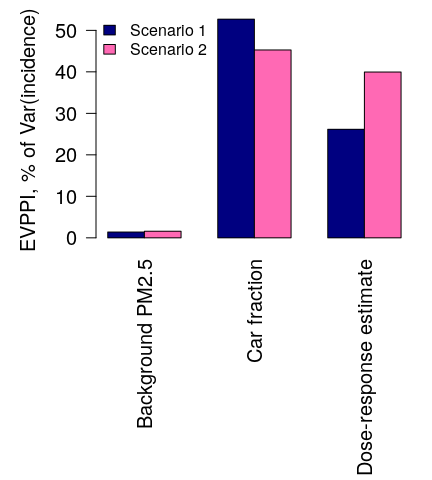
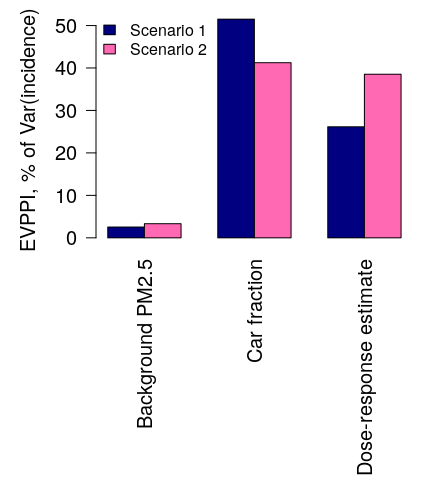
tidy

diff --git a/README.md b/README.md
@@ -78,9 +78,9 @@ EVPPI result
 
 |                        |  Scenario 1|  Scenario 2|
 |------------------------|-----------:|-----------:|
-| Background PM2.5       |         1.4|         1.6|
-| Car fraction           |        52.7|        45.3|
-| Dose-response estimate |        26.2|        40.0|
+| Background PM2.5       |         2.5|         3.3|
+| Car fraction           |        51.5|        41.3|
+| Dose-response estimate |        26.2|        38.5|
 
 ![](README_files/figure-markdown_github/plot-1.png)
 
